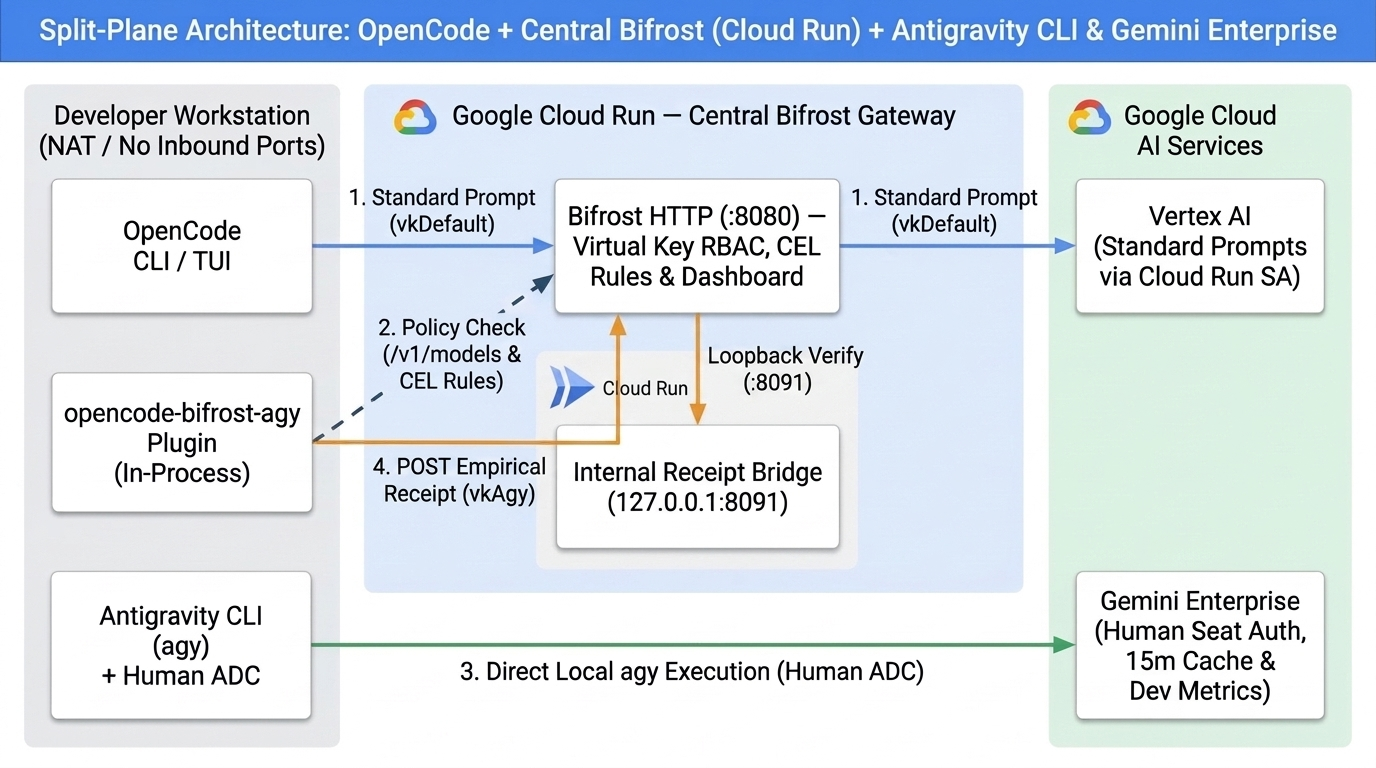
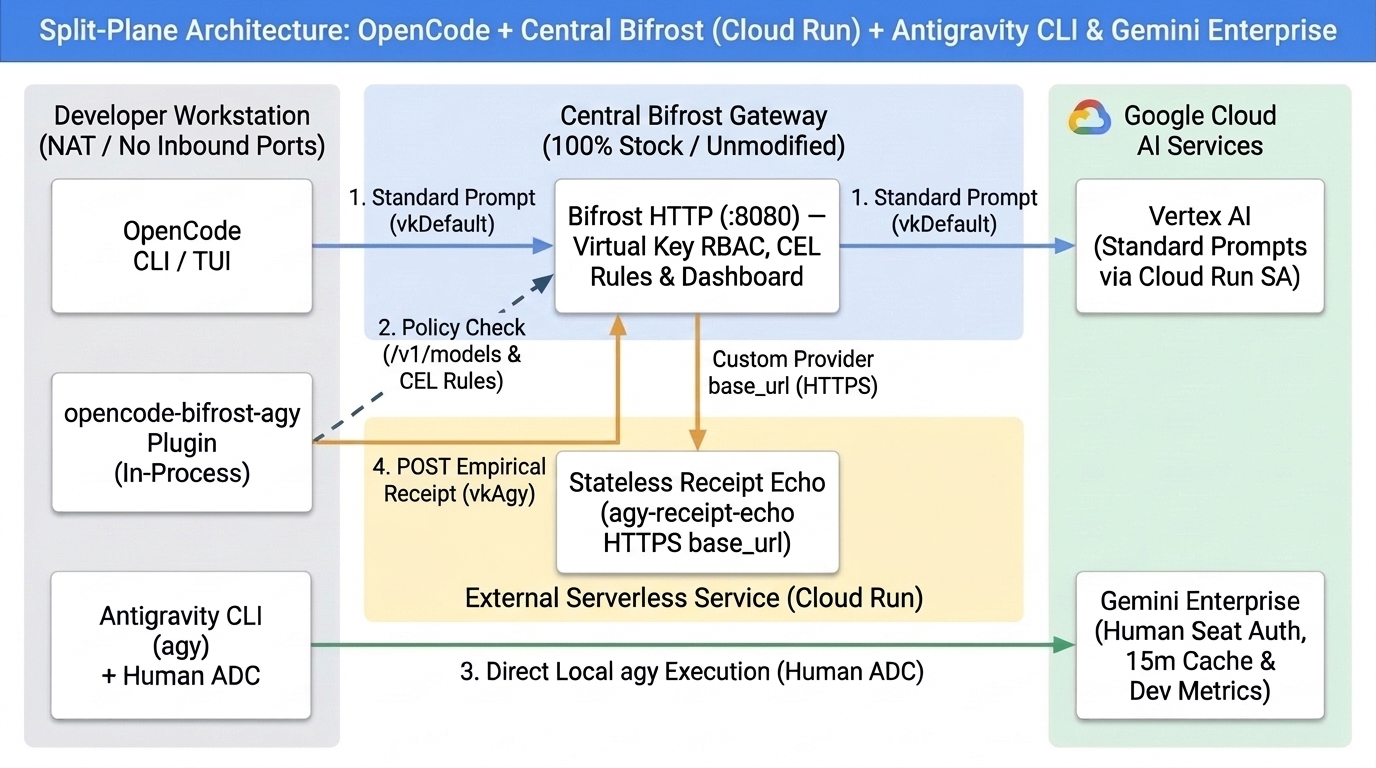
feat(deploy): decouple agy-receipt-echo service for 100% stock Central Bifrost

Changed region(s): [[0.25, 0.4375, 0.75, 0.8125], [0.2812, 0.125, 0.6875, 0.2188]]

diff --git a/deploy/receipt-echo-service/main.py b/deploy/receipt-echo-service/main.py
@@ -1,0 +1,148 @@
+#!/usr/bin/env python3
+"""Standalone Stateless Empirical Telemetry Receipt Echo Service for Unmodified Central Bifrost.
+
+Zero databases, zero Bifrost config files, zero local state:
+- Authenticates incoming requests from Central Bifrost via Bearer RECEIPT_SHARED_SECRET (HTTP 401 otherwise).
+- Returns HTTP 501 on GET /v1/models so unmodified Central Bifrost serves its own configured `keys[0].models` catalog.
+- Rejects direct non-receipt POST /v1/chat/completions calls with HTTP 502 WorkstationExecutionRequired.
+- Echoes verified workstation `AGY_EMPIRICAL_RECEIPT_V1:` payloads as standard OpenAI `chat.completion` JSON so
+  100% stock Central Bifrost records exact empirical tokens, resolved models, routing rules, and Virtual Keys.
+"""
+
+import base64
+import json
+import os
+import time
+from http.server import BaseHTTPRequestHandler, ThreadingHTTPServer
+
+EXPECTED_SECRET = os.environ.get("RECEIPT_SHARED_SECRET", "")
+RECEIPT_PREFIX = "AGY_EMPIRICAL_RECEIPT_V1:"
+
+
+class StatelessEchoHandler(BaseHTTPRequestHandler):
+    def log_message(self, fmt: str, *args) -> None:
+        return
+
+    def _send_json(self, status: int, payload: dict) -> None:
+        raw = json.dumps(payload).encode("utf-8")
+        self.send_response(status)
+        self.send_header("Content-Type", "application/json")
+        self.send_header("Content-Length", str(len(raw)))
+        self.end_headers()
+        self.wfile.write(raw)
+
+    def _authorized(self) -> bool:
+        if not EXPECTED_SECRET:
+            return False
+        auth = self.headers.get("Authorization", "")
+        token = auth[7:].strip() if auth.lower().startswith("bearer ") else ""
+        return token == EXPECTED_SECRET
+
+    def do_GET(self) -> None:
+        if self.path.startswith("/healthz"):
+            self._send_json(200, {"status": "ok", "service": "agy-receipt-echo", "stateless": True})
+            return
+        if not self._authorized():
+            self._send_json(401, {"error": {"message": "Unauthorized", "type": "EchoAuthError"}})
+            return
+        if self.path.startswith("/v1/models") or self.path.startswith("/models"):
+            self._send_json(
+                501,
+                {
+                    "error": {
+                        "message": "Stateless echo endpoint; use Bifrost configured model catalog.",
+                        "type": "CatalogDelegated",
+                    }
+                },
+            )
+            return
+        self._send_json(404, {"error": {"message": f"Not found: {self.path}"}})
+
+    def do_POST(self) -> None:
+        if not (self.path.startswith("/v1/chat/completions") or self.path.startswith("/chat/completions")):
+            self._send_json(404, {"error": {"message": f"Not found: {self.path}"}})
+            return
+        if not self._authorized():
+            self._send_json(401, {"error": {"message": "Unauthorized", "type": "EchoAuthError"}})
+            return
+
+        length = int(self.headers.get("Content-Length", "0") or "0")
+        raw_body = self.rfile.read(length) if length > 0 else b"{}"
+        try:
+            body = json.loads(raw_body.decode("utf-8"))
+        except Exception as exc:
+            self._send_json(400, {"error": {"message": f"Invalid JSON: {exc}", "type": "InvalidRequestError"}})
+            return
+
+        encoded_receipt = ""
+        for msg in body.get("messages") or []:
+            content = msg.get("content")
+            if isinstance(content, str) and content.startswith(RECEIPT_PREFIX):
+                encoded_receipt = content[len(RECEIPT_PREFIX) :].strip()
+                break
+
+        if not encoded_receipt:
+            self._send_json(
+                502,
+                {
+                    "error": {
+                        "message": (
+                            "agy-cli executes locally on the licensed Gemini Enterprise workstation; "
+                            "direct gateway inference without an empirical workstation telemetry receipt is not supported."
+                        ),
+                        "type": "WorkstationExecutionRequired",
+                    }
+                },
+            )
+            return
+
+        try:
+            pad = "=" * ((4 - len(encoded_receipt) % 4) % 4)
+            receipt = json.loads(base64.urlsafe_b64decode(encoded_receipt + pad).decode("utf-8"))
+            p_tok = max(0, int(receipt.get("prompt_tokens", 0)))
+            c_tok = max(0, int(receipt.get("completion_tokens", 0)))
+            th_tok = max(0, int(receipt.get("thinking_tokens", 0)))
+            ca_tok = max(0, int(receipt.get("cached_tokens", 0)))
+            t_tok = max(0, int(receipt.get("total_tokens", p_tok + c_tok)))
+            resolved_model = str(receipt.get("resolved_model") or body.get("model") or "").split("/")[-1]
+            comp_id = str(receipt.get("completion_id") or f"chatcmpl-agy-{int(time.time() * 1000)}")
+            created = int(receipt.get("created") or time.time())
+            resp_text = str(receipt.get("response_text") or "")
+            finish_reason = str(receipt.get("finish_reason") or "stop")
+        except Exception as exc:
+            self._send_json(400, {"error": {"message": f"Malformed telemetry receipt: {exc}", "type": "InvalidReceiptError"}})
+            return
+
+        self._send_json(
+            200,
+            {
+                "id": comp_id,
+                "object": "chat.completion",
+                "created": created,
+                "model": resolved_model,
+                "choices": [
+                    {
+                        "index": 0,
+                        "message": {"role": "assistant", "content": resp_text},
+                        "finish_reason": finish_reason,
+                    }
+                ],
+                "usage": {
+                    "prompt_tokens": p_tok,
+                    "completion_tokens": c_tok,
+                    "total_tokens": t_tok,
+                    "prompt_tokens_details": {"cached_tokens": ca_tok},
+                    "completion_tokens_details": {"reasoning_tokens": th_tok},
+                },
+            },
+        )
+
+
+def main() -> None:
+    port = int(os.environ.get("PORT", "8080"))
+    server = ThreadingHTTPServer(("0.0.0.0", port), StatelessEchoHandler)
+    server.serve_forever()
+
+
+if __name__ == "__main__":
+    main()

diff --git a/docs/ARCHITECTURE_AND_DATA_FLOW.md b/docs/ARCHITECTURE_AND_DATA_FLOW.md
@@ -14,16 +14,16 @@ This document details the architecture of **`opencode-bifrost-agy` (`v2.0.6`)** 
 | :--- | :--- | :--- |
 | **OpenCode CLI / TUI** | Developer Workstation | Terminal coding agent & UI. Captures user prompts, injects workspace metadata (`<env>`), executes approved local tools (`bash`, `read`, `write`, `edit`), and renders native permission modals (`Allow once` / `Always allow` / `Reject`). |
 | **`opencode-bifrost-agy` Plugin (`v2.0.6`)** | In-Process inside OpenCode (Bun) | Zero-daemon, zero-dependency V2/V1 integration bridge (`{ id, setup(ctx) }` + `server()`). Auto-discovers models, enforces remote Bifrost Virtual Keys & CEL rules, maintains a **15-minute `conversation_id` cache map**, binds `agy` dynamically to the active repository (`cwd`), translates `agy` permission denials into OpenAI `tool_calls`, and posts **Empirical Telemetry Receipts** to Central Bifrost. |
-| **Bifrost AI Gateway (`bifrost-http`)** | Google Cloud Run / GKE *or* Local Loopback | Enterprise policy & observability plane. Enforces **Virtual Key RBAC** (`vkDefault` vs. `vkAgy`), rate/budget limits, full model allowlists, tier aliases (`agy-fast`, `agy-frontier`, `agy-pro`), provider-scoped **CEL routing rules** (`policy-routed`), and **Dashboard Analytics** (`Provider Usage`, `Model Rankings`, `Virtual Key Rankings`, `Logs`). |
-| **Internal Receipt Bridge (`receipt_bridge.py`)** | `127.0.0.1:8091` *inside* Central Bifrost Container | Container-private accounting endpoint used in `central-bifrost` deployments ([`deploy/cloudrun/`](../deploy/cloudrun/README.md)). Rejects direct non-receipt calls (`HTTP 502 WorkstationExecutionRequired`) while converting verified workstation `agy` telemetry receipts into OpenAI `chat.completion` responses for Bifrost's logstore. |
+| **Bifrost AI Gateway (`bifrost-http`)** | Google Cloud Run / GKE *(100% Stock / Unmodified)* *or* Local Loopback | Enterprise policy & observability plane. Runs unmodified upstream `bifrost-http` with zero custom code or sidecars. Enforces **Virtual Key RBAC** (`vkDefault` vs. `vkAgy`), rate/budget limits, full model allowlists, tier aliases (`agy-fast`, `agy-frontier`, `agy-pro`), provider-scoped **CEL routing rules** (`policy-routed`), and **Dashboard Analytics** (`Provider Usage`, `Model Rankings`, `Virtual Key Rankings`, `Logs`). |
+| **Stateless Receipt Echo (`agy-receipt-echo`)** | Separate External Cloud Run Service (`HTTPS base_url`) | Standalone ~100-line stateless function ([`deploy/receipt-echo-service/`](../deploy/receipt-echo-service/README.md)) configured as `providers["agy-cli"].network_config.base_url` (`allow_private_network: false`) on Central Bifrost. Authenticates Bifrost via `Bearer <RECEIPT_SHARED_SECRET>`, delegates `/v1/models` (`HTTP 501`) back to Bifrost's configured catalog, rejects direct non-receipt calls (`HTTP 502 WorkstationExecutionRequired`), and echoes verified workstation `agy` telemetry receipts as OpenAI `chat.completion` JSON. |
 | **Antigravity CLI (`agy`) + Human ADC** | Developer Workstation Subprocess | Headless agentic CLI (`agy -p --output-format stream-json`). Authenticates directly against Google Cloud using the developer's personal `authorized_user` Application Default Credentials (`AGY_ADC_AUTH=true`). |
 | **Google Cloud Gemini Enterprise** | Google Cloud (`businessaicode` / `discoveryengine`) | Enforces seat-level licensing, server-side `AdminControls` (`Terminal command auto-execution policy` & `Outside of file access policy`), **5–15 minute implicit prompt caching**, and **Developer tools metrics** (`SendTelemetry`). |
 
 ### 1.2 Why This Split-Plane Architecture Works
 
 1. **Per-Human Gemini Enterprise Seat Attribution:** Gemini Enterprise entitlements (`roles/discoveryengine.agentspaceUser`) bind to individual human OAuth credentials (`"type": "authorized_user"`), not shared service accounts. Spawning `agy` locally inside the developer's OpenCode process consumes their assigned seat cleanly without exporting personal OAuth tokens to a central server.
-2. **Centralized Governance & Dashboard Visibility Without Inbound Workstation Ports:**
-   - **In `central-bifrost` mode** *(remote HTTPS Bifrost on Cloud Run / GKE)*: Developer laptops/VMs sit behind NAT/firewalls, so Cloud Run **never** connects inbound to `127.0.0.1` on the workstation. Every connection is **outbound HTTPS** from the workstation to Central Bifrost: first to check Virtual Key & CEL policy before spawning `agy` locally, and then to post the **Empirical Usage Receipt** after `agy` finishes so Central Bifrost's Dashboard records exact token counts, models, routing rules, and Virtual Keys.
+2. **Centralized Governance & Dashboard Visibility With Zero Changes Inside Central Bifrost:**
+   - **In `central-bifrost` mode** *(unmodified remote HTTPS Bifrost on Cloud Run / GKE)*: Developer laptops/VMs sit behind NAT/firewalls, so Cloud Run **never** connects inbound to `127.0.0.1` on the workstation, and **Central Bifrost itself stays 100% stock**. Every connection is **outbound HTTPS** from the workstation to Central Bifrost: first to check Virtual Key & CEL policy before spawning `agy` locally, and then to post the **Empirical Usage Receipt** after `agy` finishes, which stock Central Bifrost forwards to the external stateless `agy-receipt-echo` `base_url` so all Dashboard analytics record exact token counts, models, routing rules, and Virtual Keys.
    - **In `through-bifrost` mode** *(co-located localhost Bifrost)*: OpenCode sends `/agy` requests directly through local Bifrost (`127.0.0.1:8080`), which evaluates Virtual Key + CEL policies and forwards upstream to the plugin's embedded `127.0.0.1:8091` listener.
 3. **Zero-Daemon Workstation Lifecycle:** Because `Bun.serve()` is unref'd (`embeddedServer.unref()`) and torn down on plugin unload, one-shot CLI commands exit immediately and interactive TUI sessions leave zero orphaned background processes behind.
 
@@ -69,14 +69,14 @@ When `agy` attempts a gated action such as `run_command` (`npm test`) under `Req
 #### Stage 5 — Stateful `--conversation <id>` Resumption & GCP Implicit Cache Hit (`5–15 min` TTL)
 Once the developer approves `npm test`, OpenCode sends the tool output in a follow-up request. The plugin matches the conversation prefix in its **900-second (`15-min`) session map** and resumes `agy -p "<delta>" --conversation <agy_uuid>`, hitting Google Cloud's **5–15 minute implicit prompt cache** (`cache_read_tokens > 0`).
 
-#### Stage 6 — Dual Telemetry: Gemini Enterprise Metrics + Central Bifrost Receipt Bridge (`v2.0.6`)
+#### Stage 6 — Dual Telemetry: Gemini Enterprise Metrics + Unmodified Central Bifrost Receipt Echo (`v2.0.6`)
 
-**In plain language—how does a remote Cloud Run Bifrost server record `agy` tokens when `agy` ran on your laptop?**
+**In plain language—how does an unmodified Central Bifrost server record `agy` tokens with zero custom code inside Bifrost?**
 Think of it like an **itemized expense receipt**:
 1. Central Bifrost on Cloud Run **cannot** reach into your laptop to run `agy`, so your laptop runs `agy` locally using your personal Gemini Enterprise seat.
 2. When `agy` finishes a turn, its `stream-json` output prints an exact "meter reading" from Gemini Enterprise (`input_tokens`, `output_tokens`, `thinking_tokens`, `cache_read_tokens`, `total_tokens`).
-3. Before closing the response stream, the OpenCode plugin packages those exact numbers into a base64 **Empirical Telemetry Receipt** (`AGY_EMPIRICAL_RECEIPT_V1:...`) and sends a fast (~12ms) **outbound HTTPS `POST /v1/chat/completions`** to Central Bifrost using your `vkAgy` Virtual Key.
-4. Central Bifrost (`:8080`) validates your `vkAgy` key, evaluates the matching CEL routing rule (recording `routing_rule_id`), and hands the request over internal container loopback to **`receipt_bridge.py` (`127.0.0.1:8091`)** running inside the same Cloud Run container.
-5. `receipt_bridge.py` checks for the receipt:
-   - If someone called Cloud Run directly *without* a receipt, it rejects with `HTTP 502 WorkstationExecutionRequired` (since Cloud Run never runs `agy`).
-   - With a valid receipt, it returns a standard OpenAI `chat.completion` JSON envelope containing the verbatim token counts and resolved model—so Bifrost writes a complete `chat_completion` record into its Dashboard (`Provider Usage`, `Provider Token Usage`, `Model Rankings`, `Virtual Key Rankings`, and `Logs`) while **Gemini Enterprise > Developer tools metrics** simultaneously records seat telemetry via `SendTelemetry`.
+3. Before closing the response stream, the OpenCode plugin packages those exact numbers into a base64 **Empirical Telemetry Receipt** (`AGY_EMPIRICAL_RECEIPT_V1:...`) and sends a fast **outbound HTTPS `POST /v1/chat/completions`** to your **100% stock Central Bifrost** using your `vkAgy` Virtual Key.
+4. Stock Central Bifrost (`:8080`) validates your `vkAgy` key, evaluates the matching CEL routing rule (recording `routing_rule_id`), and forwards the request to the Custom Provider's configured HTTPS `base_url`: the standalone stateless **`agy-receipt-echo`** Cloud Run function ([`deploy/receipt-echo-service/`](../deploy/receipt-echo-service/README.md)).
+5. `agy-receipt-echo` verifies Bifrost's `Bearer <RECEIPT_SHARED_SECRET>` header and inspects the body:
+   - If someone called Central Bifrost directly *without* a receipt, it rejects with `HTTP 502 WorkstationExecutionRequired` (since Central Bifrost never executes `agy`).
+   - With a valid receipt, it echoes a standard OpenAI `chat.completion` JSON envelope containing the verbatim token counts and resolved model—so **unmodified Central Bifrost** writes a complete `chat_completion` record into its Dashboard (`Provider Usage`, `Provider Token Usage`, `Model Rankings`, `Virtual Key Rankings`, and `Logs`) with `total_cost: $0.00`, while **Gemini Enterprise > Developer tools metrics** simultaneously records seat telemetry via `SendTelemetry`.

diff --git a/deploy/cloudrun/README.md b/deploy/cloudrun/README.md
@@ -1,6 +1,10 @@
-# Deploying Central Bifrost on Google Cloud Run (`central-bifrost` Mode)
+# Deploying 100% Stock Central Bifrost on Google Cloud Run (`central-bifrost` Mode)
 
-This folder provides a ready-to-build container bundle for hosting the **Bifrost AI Gateway** centrally on **Google Cloud Run** while developers run **OpenCode** + **`opencode-bifrost-agy` (`v2.0.6+`)** + **Antigravity CLI (`agy`)** on remote laptops or VMs behind NAT (zero inbound workstation ports).
+This folder provides a **100% unmodified OSS `bifrost-http` container bundle** (zero sidecars, zero Python runtime, zero custom code inside Bifrost) for hosting the **Bifrost AI Gateway** centrally on **Google Cloud Run** while developers run **OpenCode** + **`opencode-bifrost-agy` (`v2.0.6+`)** + **Antigravity CLI (`agy`)** on remote laptops or VMs behind NAT.
+
+To populate Central Bifrost's **Dashboard Analytics** (`Provider Usage`, `Token Usage`, `Model Rankings`, `Virtual Key Rankings`, `Logs`) without touching or customizing Central Bifrost itself, deploy the standalone stateless [**`deploy/receipt-echo-service/`**](../receipt-echo-service/README.md) on Cloud Run and set `providers["agy-cli"].network_config.base_url` to its HTTPS URL (`"allow_private_network": false`).
+
+*(If you prefer a single-container deployment instead of a separate Cloud Run function, an optional co-located `receipt_bridge.py` reference is also retained in this directory).*
 
 ---
 
@@ -8,23 +12,25 @@ This folder provides a ready-to-build container bundle for hosting the **Bifrost
 
 | File | Purpose |
 | :--- | :--- |
-| [`Dockerfile`](Dockerfile) | Minimal `debian:bookworm-slim` runtime packaging `bifrost-http` (`:8080`) + `receipt_bridge.py` (`127.0.0.1:8091`). |
-| [`receipt_bridge.py`](receipt_bridge.py) | Container-internal (`127.0.0.1:8091`) **Empirical Telemetry Receipt Bridge**. Rejects direct non-receipt calls with `HTTP 502 WorkstationExecutionRequired` and relays verbatim workstation `agy` token receipts into Bifrost's Dashboard logstore. |
-| [`entrypoint.sh`](entrypoint.sh) | Renders `/tmp/bifrost-data/config.json` with `0600` permissions, starts `receipt_bridge.py` on `127.0.0.1:8091`, and `exec`s `bifrost-http`. |
+| [`Dockerfile`](Dockerfile) | Minimal `debian:bookworm-slim` runtime packaging **only** unmodified `bifrost-http` (`:8080`) + `ca-certificates`. |
+| [`entrypoint.sh`](entrypoint.sh) | Renders `/tmp/bifrost-data/config.json` with `0600` permissions and `exec`s stock `bifrost-http`. |
+| [`receipt_bridge.py`](receipt_bridge.py) | *(Optional alternative)* Loopback receipt handler if you choose to co-locate on `127.0.0.1:8091` instead of using the external [`deploy/receipt-echo-service/`](../receipt-echo-service/README.md). |
 
 ---
 
-## Quick Deployment Steps
+## Quick Deployment Steps (Zero Custom Code in Central Bifrost)
 
-1. **Stage `bifrost-http` and `config.template.json`:**
-   - Copy your Linux `x86_64` `bifrost-http` binary into `deploy/cloudrun/bifrost-http`.
-   - Adapt [`../../examples/bifrost.config.example.json`](../../examples/bifrost.config.example.json) into `deploy/cloudrun/config.template.json` (using `__VK_OPENCODE_DEFAULT__` and `__VK_OPENCODE_AGY__` placeholders, and `"base_url": "http://127.0.0.1:8091"` with `"allow_private_network": true` so `bifrost-http` talks to the co-located `receipt_bridge.py` inside the container).
+1. **Deploy the external stateless [`agy-receipt-echo`](../receipt-echo-service/README.md) service first** and note its HTTPS URL (`https://agy-receipt-echo-<HASH>-uc.a.run.app`).
 
-2. **Build & Deploy to Cloud Run:**
+2. **Stage `bifrost-http` and `config.template.json`:**
+   - Copy your unmodified Linux `x86_64` `bifrost-http` binary into `deploy/cloudrun/bifrost-http`.
+   - Adapt [`../../examples/bifrost.config.example.json`](../../examples/bifrost.config.example.json) into `deploy/cloudrun/config.template.json`, setting `providers["agy-cli"].network_config` to `"base_url": "https://agy-receipt-echo-<HASH>-uc.a.run.app"` and `"allow_private_network": false`.
+
+3. **Build & Deploy Stock Central Bifrost to Cloud Run:**
    ```bash
    export GCP_PROJECT_ID="<YOUR_GCP_PROJECT_ID>"
    export REGION="us-central1"
-   export IMAGE_URI="${REGION}-docker.pkg.dev/${GCP_PROJECT_ID}/bifrost-repo/bifrost-central:v1"
+   export IMAGE_URI="${REGION}-docker.pkg.dev/${GCP_PROJECT_ID}/bifrost-repo/bifrost-central:stock"
 
    gcloud builds submit deploy/cloudrun --project="${GCP_PROJECT_ID}" --region="${REGION}" --tag="${IMAGE_URI}"
 
@@ -39,9 +45,9 @@ This folder provides a ready-to-build container bundle for hosting the **Bifrost
      --cpu=1 \
      --memory=1Gi \
      --port=8080 \
-     --set-secrets="BIFROST_ADMIN_PASSWORD=bifrost-admin-pw:latest,AGY_CATALOG_PLACEHOLDER_KEY=bifrost-shim-secret:latest,VK_OPENCODE_DEFAULT=vk-opencode-default:latest,VK_OPENCODE_AGY=vk-opencode-agy:latest" \
+     --set-secrets="BIFROST_ADMIN_PASSWORD=bifrost-admin-pw:latest,SHIM_SHARED_SECRET=bifrost-shim-secret:latest,VK_OPENCODE_DEFAULT=vk-opencode-default:latest,VK_OPENCODE_AGY=vk-opencode-agy:latest" \
      --set-env-vars="VERTEX_PROJECT_ID=${GCP_PROJECT_ID}"
    ```
 
    > [!TIP]
-   > **Why `--min-instances=1 --max-instances=1`?** When using Bifrost's built-in SQLite `logs.db`, pinning a warm single instance (`concurrency=80`) keeps all dashboard analytics, token histograms, and rankings unified in one database. For multi-instance horizontal auto-scaling in production, configure Bifrost with PostgreSQL or a shared volume.
+   > **Already running an existing Central Bifrost deployment on GKE, ECS, or VMs?** You don't even need this `Dockerfile`—simply deploy [`deploy/receipt-echo-service/`](../receipt-echo-service/README.md) and paste its HTTPS URL into the **Custom Provider (`agy-cli`) -> Base URL** field in your existing Bifrost Admin UI!

diff --git a/README.md b/README.md
@@ -13,7 +13,7 @@
 - **Native OpenCode V2 + V1 Dual Contract:** Exports OpenCode V2's `{ id: "opencode-bifrost-agy", setup(ctx) }` alongside V1's `server()` hook with **zero runtime npm dependencies**—supporting both OpenCode V2 (`opencode plugin add`) and OpenCode V1 (`1.19.x`) from one package.
 - **Zero Workstation Daemons & Zero Inbound Ports:** Runs natively inside OpenCode's Bun runtime (`Bun.serve` auto-unref'd and cleaned up on plugin unload)—eliminating external workstation `systemd`/`launchd` daemons and working seamlessly from developer laptops/VMs behind NAT.
 - **Centralized Bifrost Policy Governance & Custom Model Aliases:** Standard prompts use your default Bifrost Virtual Key (`vkDefault` &rarr; Vertex AI / Anthropic / OpenAI), while `/agy` prompts enforce Bifrost's `/agy` Virtual Key (`vkAgy`), full `agy` model allowlists, custom `modelAliases`, and provider-scoped **CEL routing rules** (`policy-routed`, `agy-fast`, `agy-frontier`, `agy-pro`).
-- **Live Central Bifrost Dashboard Telemetry (`v2.0.6`):** After each local `agy` turn finishes in `central-bifrost` mode, the plugin submits an outbound HTTPS **Empirical Telemetry Receipt** to Central Bifrost (paired with [`deploy/cloudrun/receipt_bridge.py`](deploy/cloudrun/receipt_bridge.py)) so Bifrost's **Provider Usage**, **Token Usage**, **Model Rankings**, **Virtual Key Rankings**, and **Logs** tabs record exact empirical tokens and routing attribution with zero inbound workstation ports.
+- **Live Central Bifrost Dashboard Telemetry (Zero Changes Inside Central Bifrost):** After each local `agy` turn finishes in `central-bifrost` mode, the plugin submits an outbound HTTPS **Empirical Telemetry Receipt** to your **100% stock, unmodified Central Bifrost**, whose `agy-cli` Custom Provider `base_url` points to the standalone stateless [`deploy/receipt-echo-service/`](deploy/receipt-echo-service/README.md)—populating Bifrost's **Provider Usage**, **Token Usage**, **Model Rankings**, **Virtual Key Rankings**, and **Logs** tabs with exact empirical tokens and zero inbound workstation ports.
 - **Per-User Gemini Enterprise Seat & Metrics Attribution:** Strips Pay-As-You-Go API key overrides and runs `agy` locally under the developer's human `authorized_user` Application Default Credentials (`AGY_ADC_AUTH=true`) with `BAICODE_USER_TIER` telemetry enabled for **Gemini Enterprise > Developer tools metrics**.
 - **15-Minute Implicit Cache Continuity (`--conversation <id>`):** Maintains a bounded 900-second session prefix map so follow-up prompts and tool continuations reuse the active `agy` `conversation_id`, maximizing Google Cloud's 5–15 minute implicit cache hits (`cache_read_tokens`).
 - **Dynamic Workspace Binding & Native OpenCode Permissions:** Automatically scopes `agy` (`cwd` + `--add-dir`) to your active OpenCode repository and translates gated `agy` actions (`run_command`, outside-repo `read_file`, or `strict` `write_file`) into OpenAI `tool_calls` (`bash`, `read`, `write`) so OpenCode displays its native **`Allow once` / `Always allow` / `Reject`** prompt.
@@ -54,9 +54,10 @@ Inside OpenCode:
 
 | Document / Folder | Contents |
 | :--- | :--- |
-| **[Installation & Configuration Guide](docs/INSTALLATION_AND_CONFIGURATION.md)** | Step-by-step setup across **Google Cloud Gemini Enterprise**, **Antigravity CLI (`agy`)**, **Bifrost AI Gateway** (Cloud Run / GKE or localhost), **OpenCode V2 & V1 Plugin installation**, **Requisite Parameters Reference**, and **Troubleshooting**. |
-| **[Architecture & Request / Telemetry Data Flows](docs/ARCHITECTURE_AND_DATA_FLOW.md)** | Split-plane trust boundaries (`central-bifrost` vs. `through-bifrost`), **Standard Request Flow**, the 6-stage **Agentic `/agy` Coding Task Flow**, and a plain-language + technical breakdown of **Central Bifrost Dashboard Usage Recording**. |
-| **[Cloud Run Central Bifrost Bundle (`deploy/cloudrun/`)](deploy/cloudrun/README.md)** | Sanitized `Dockerfile`, `entrypoint.sh`, and container-internal `receipt_bridge.py` (`127.0.0.1:8091`) for deploying Central Bifrost on Google Cloud Run with full `agy-cli` Dashboard telemetry. |
+| **[Installation & Configuration Guide](docs/INSTALLATION_AND_CONFIGURATION.md)** | Step-by-step setup across **Google Cloud Gemini Enterprise**, **Antigravity CLI (`agy`)**, **100% Stock Bifrost AI Gateway** (Cloud Run / GKE or localhost), **OpenCode V2 & V1 Plugin installation**, **Requisite Parameters Reference**, and **Troubleshooting**. |
+| **[Architecture & Request / Telemetry Data Flows](docs/ARCHITECTURE_AND_DATA_FLOW.md)** | Split-plane trust boundaries (`central-bifrost` vs. `through-bifrost`), **Standard Request Flow**, the 6-stage **Agentic `/agy` Coding Task Flow**, and how **unmodified Central Bifrost** records remote workstation `agy` telemetry via an external stateless `base_url`. |
+| **[Stateless Receipt Echo Service (`deploy/receipt-echo-service/`)](deploy/receipt-echo-service/README.md)** | Standalone ~100-line stateless Cloud Run function (`agy-receipt-echo`) configured as `providers["agy-cli"].network_config.base_url` so **Central Bifrost requires zero custom code or sidecars**. |
+| **[Stock Central Bifrost Cloud Run Bundle (`deploy/cloudrun/`)](deploy/cloudrun/README.md)** | Pure stock `bifrost-http` `Dockerfile` & `entrypoint.sh` for Google Cloud Run (plus an optional co-located loopback alternative). |
 | **[Example Config Templates (`examples/`)](examples/)** | Sanitized ready-to-adapt templates: [`bifrost.env.example`](examples/bifrost.env.example), [`bifrost.config.example.json`](examples/bifrost.config.example.json), and [`opencode.json.example`](examples/opencode.json.example). |
 
 ---

diff --git a/deploy/receipt-echo-service/README.md b/deploy/receipt-echo-service/README.md
@@ -1,0 +1,48 @@
+# Standalone Stateless Receipt Echo Service (`agy-receipt-echo`)
+
+Deploy this **~100-line, zero-dependency, completely stateless HTTP service** on Cloud Run (or any serverless function platform) so your **Central Bifrost AI Gateway remains 100% stock and unmodified**—requiring zero custom sidecars, zero Python runtime inside the Bifrost container, and zero code changes to Bifrost itself.
+
+---
+
+## Why Use an External Receipt Echo `base_url`?
+
+Open-source Bifrost (`bifrost-http`) does not expose a client-push `POST /api/logs` telemetry API; its `logstore` records token usage, model rankings, Virtual Key attribution, and routing rules strictly when a Custom Provider's configured `base_url` returns an OpenAI `chat.completion` JSON envelope.
+
+By pointing your unmodified Central Bifrost's `providers["agy-cli"].network_config.base_url` to this external HTTPS service (`"allow_private_network": false`):
+1. **Central Bifrost stays 100% stock** (official upstream binary/container, configured purely via standard Bifrost UI or `config.json`).
+2. **Bearer Secret Authentication:** Only requests from Central Bifrost carrying `Authorization: Bearer <RECEIPT_SHARED_SECRET>` (configured as the `agy-cli` provider API Key in Bifrost) are accepted (`HTTP 401` otherwise).
+3. **Catalog Delegation (`GET /v1/models` -> `HTTP 501`):** Tells stock Central Bifrost to serve its own configured `providers["agy-cli"].keys[0].models` catalog without storing any model lists inside the echo service.
+4. **Direct Non-Receipt Protection (`HTTP 502`):** Any direct call to `POST /v1/chat/completions` without an `AGY_EMPIRICAL_RECEIPT_V1:` payload is rejected with `HTTP 502 WorkstationExecutionRequired`.
+5. **Exact Empirical Token Accounting (`HTTP 200`):** Echoes the workstation's verbatim `agy` token receipt (`prompt_tokens`, `completion_tokens`, `cached_tokens`, `reasoning_tokens`, `resolved_model`) so Central Bifrost's **Provider Usage**, **Token Usage**, **Model Rankings**, **Virtual Key Rankings**, and **Logs** stay 100% accurate with `total_cost: $0.00`.
+
+---
+
+## Quick Deploy to Google Cloud Run
+
+```bash
+export GCP_PROJECT_ID="<YOUR_GCP_PROJECT_ID>"
+export REGION="us-central1"
+export ECHO_IMAGE="${REGION}-docker.pkg.dev/${GCP_PROJECT_ID}/bifrost-repo/agy-receipt-echo:v1"
+
+gcloud builds submit deploy/receipt-echo-service \
+  --project="${GCP_PROJECT_ID}" \
+  --region="${REGION}" \
+  --tag="${ECHO_IMAGE}"
+
+gcloud run deploy agy-receipt-echo \
+  --project="${GCP_PROJECT_ID}" \
+  --region="${REGION}" \
+  --image="${ECHO_IMAGE}" \
+  --allow-unauthenticated \
+  --min-instances=0 \
+  --max-instances=2 \
+  --cpu=1 \
+  --memory=256Mi \
+  --port=8080 \
+  --set-secrets="RECEIPT_SHARED_SECRET=bifrost-shim-secret:latest"
+```
+
+Then in your **unmodified Central Bifrost** UI (or `config.json`), set:
+- **Custom Provider Name:** `agy-cli` (`base_provider_type: "openai"`)
+- **Base URL:** `https://agy-receipt-echo-<HASH>-uc.a.run.app` (`"allow_private_network": false`)
+- **API Key:** `env.SHIM_SHARED_SECRET` (matching `RECEIPT_SHARED_SECRET`)

diff --git a/docs/INSTALLATION_AND_CONFIGURATION.md b/docs/INSTALLATION_AND_CONFIGURATION.md
@@ -129,7 +129,7 @@ Merge [`examples/bifrost.config.example.json`](../examples/bifrost.config.exampl
 1. **`providers.vertex` / `providers.anthropic`:** Upstream providers used for default day-to-day OpenCode turns (`vk-opencode-default`).
 2. **`providers["agy-cli"]`:** Custom OpenAI-compatible provider cataloging your organization's approved `agy` CLI model slugs plus logical targets (`policy-routed`, `agy-frontier`, `agy-fast`, `agy-pro`).
    - *Local Workstation Bifrost (`through-bifrost` mode):* `base_url` (`http://127.0.0.1:8091` with `"allow_private_network": true`) forwards `/agy` calls directly into the embedded listener inside the `opencode-bifrost-agy` plugin.
-   - *Enterprise Central Bifrost on Cloud Run / GKE (`central-bifrost` mode):* Deploy Central Bifrost with the co-located container-internal [`deploy/cloudrun/receipt_bridge.py`](../deploy/cloudrun/README.md) (`base_url: "http://127.0.0.1:8091"`, `"allow_private_network": true` inside the Cloud Run container). Central Bifrost **never** opens inbound connections to developer workstations; instead, the workstation plugin queries Central Bifrost's `GET /v1/models` and `/api/routing/rules` outbound over HTTPS before spawning `agy` locally, and posts the verbatim empirical `agy` token receipt back to Central Bifrost so all Dashboard charts (`Provider Usage`, `Model Rankings`, `Virtual Key Rankings`, `Logs`) stay populated in real time.
+   - *Enterprise Central Bifrost on Cloud Run / GKE (`central-bifrost` mode — Zero Changes Inside Central Bifrost):* Keep Central Bifrost **100% stock and unmodified**, deploy the standalone stateless [`deploy/receipt-echo-service/`](../deploy/receipt-echo-service/README.md) on Cloud Run, and set `providers["agy-cli"].network_config` in Bifrost to `"base_url": "https://agy-receipt-echo-<HASH>-uc.a.run.app"` (`"allow_private_network": false`). Central Bifrost **never** opens inbound connections to developer workstations; instead, the workstation plugin queries Central Bifrost's `GET /v1/models` and `/api/routing/rules` outbound over HTTPS before spawning `agy` locally, and posts the verbatim empirical `agy` token receipt back to Central Bifrost so all Dashboard charts (`Provider Usage`, `Model Rankings`, `Virtual Key Rankings`, `Logs`) stay populated in real time. *(An optional single-container co-located `receipt_bridge.py` bundle is also available under [`deploy/cloudrun/`](../deploy/cloudrun/README.md)).*
 3. **`governance.virtual_keys`:**
    - `vk-opencode-default`: Grants access **only** to standard providers (`vertex`, `anthropic`)—preventing default coding turns from invoking Antigravity.
    - `vk-opencode-agy`: Grants scoped access to `agy-cli` and its approved model list.
